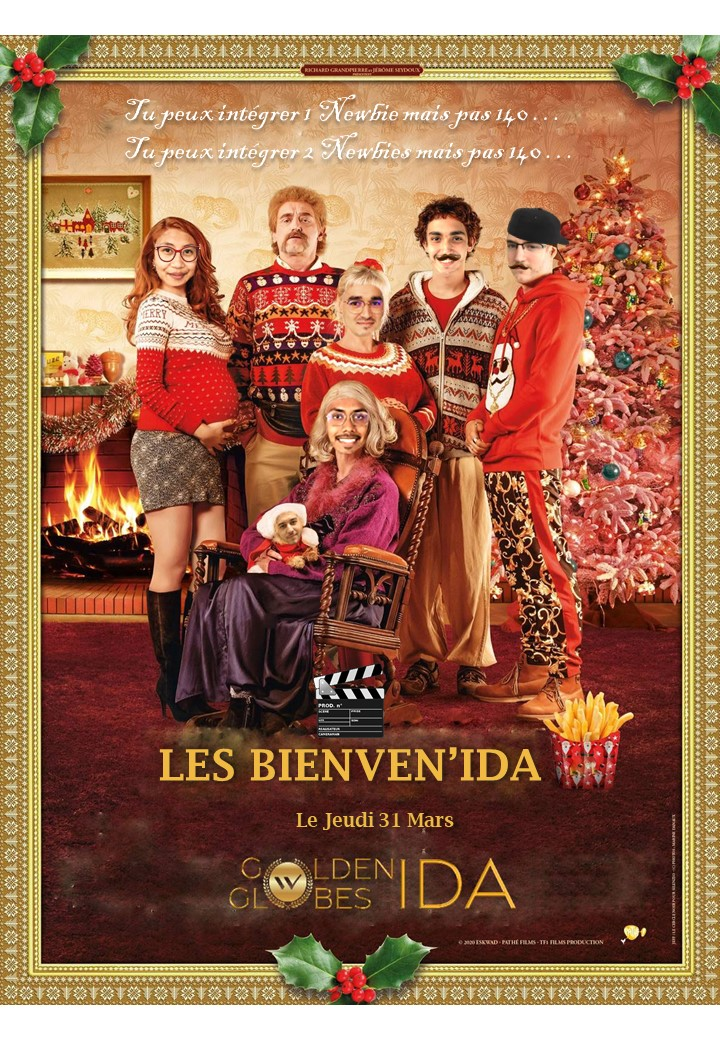
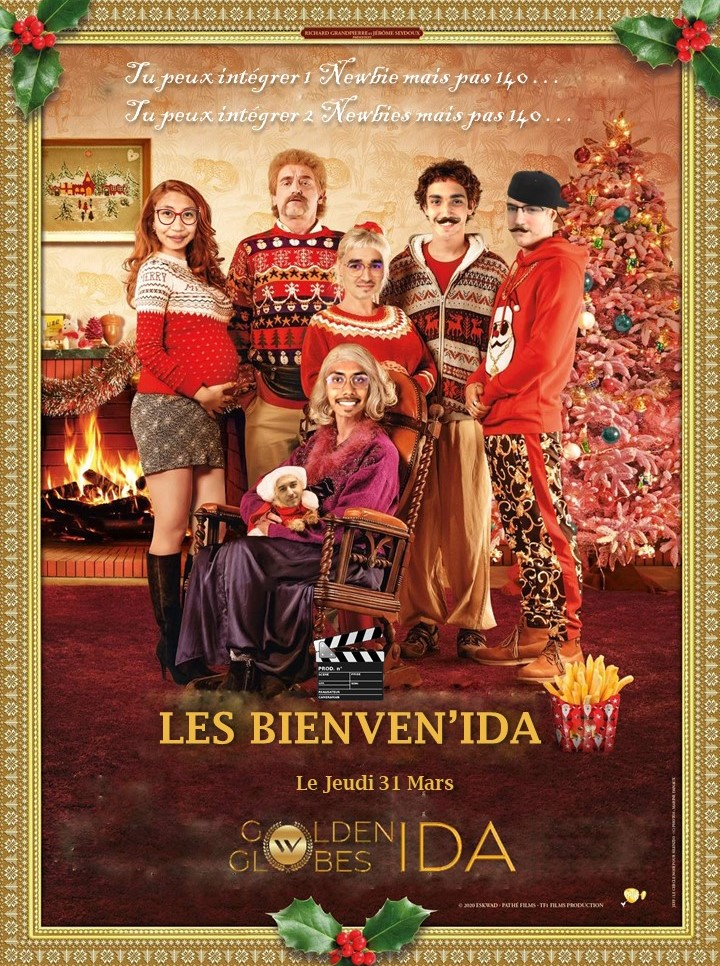
modify css and resize posters

diff --git a/medias/GG/L/L2.html b/medias/GG/L/L2.html
@@ -5,12 +5,11 @@
     <body>
         <hearder><h1>L2 - Libérer l'EA</h1></hearder> 
         <!-- A changer par le nom de l'initiative -->
-        
-        <img src="L2.jpg"><!-- A changer par le nom de l'affiche
-         -->
-        
-        <div id="heure_exacte"></div>
-        <h2>Entrez dans la salle pour assister à la présentation !</h2>
+        <img src="L2.jpg" id="affiche_initiative"><!-- A changer par le nom de l'affiche
+        -->
+       <div id="heure_exacte"></div>
+       <h2>Entrez dans la salle pour assister à la présentation !</h2>
+       <img src="L.png" id="logo_couloir">
     <footer>
     </footer>
     </body>

diff --git a/medias/GG/GG.css b/medias/GG/GG.css
@@ -5,11 +5,13 @@ body{
     flex-direction: column;
 }
 h1{
+    margin-top: 0;
     color: #efd807c7;
     text-align: center;
     font-weight: bold;
     font-family: Arial, Helvetica, sans-serif;
     font-size: 40px;
+    margin-bottom: 0;
 }
 h2{
     color: #efd807c7;
@@ -17,11 +19,11 @@ h2{
     font-weight: bold;
     font-family: Arial, Helvetica, sans-serif;
     margin: 0 auto;
-    font-size: 20px;
+    font-size: 15px;
     margin-top: 20px;
 }
 #affiche_initiative{
-    max-height: 55vh;
+    max-height: 50vh;
     margin: 0 auto;
 }
 #logo_couloir{
